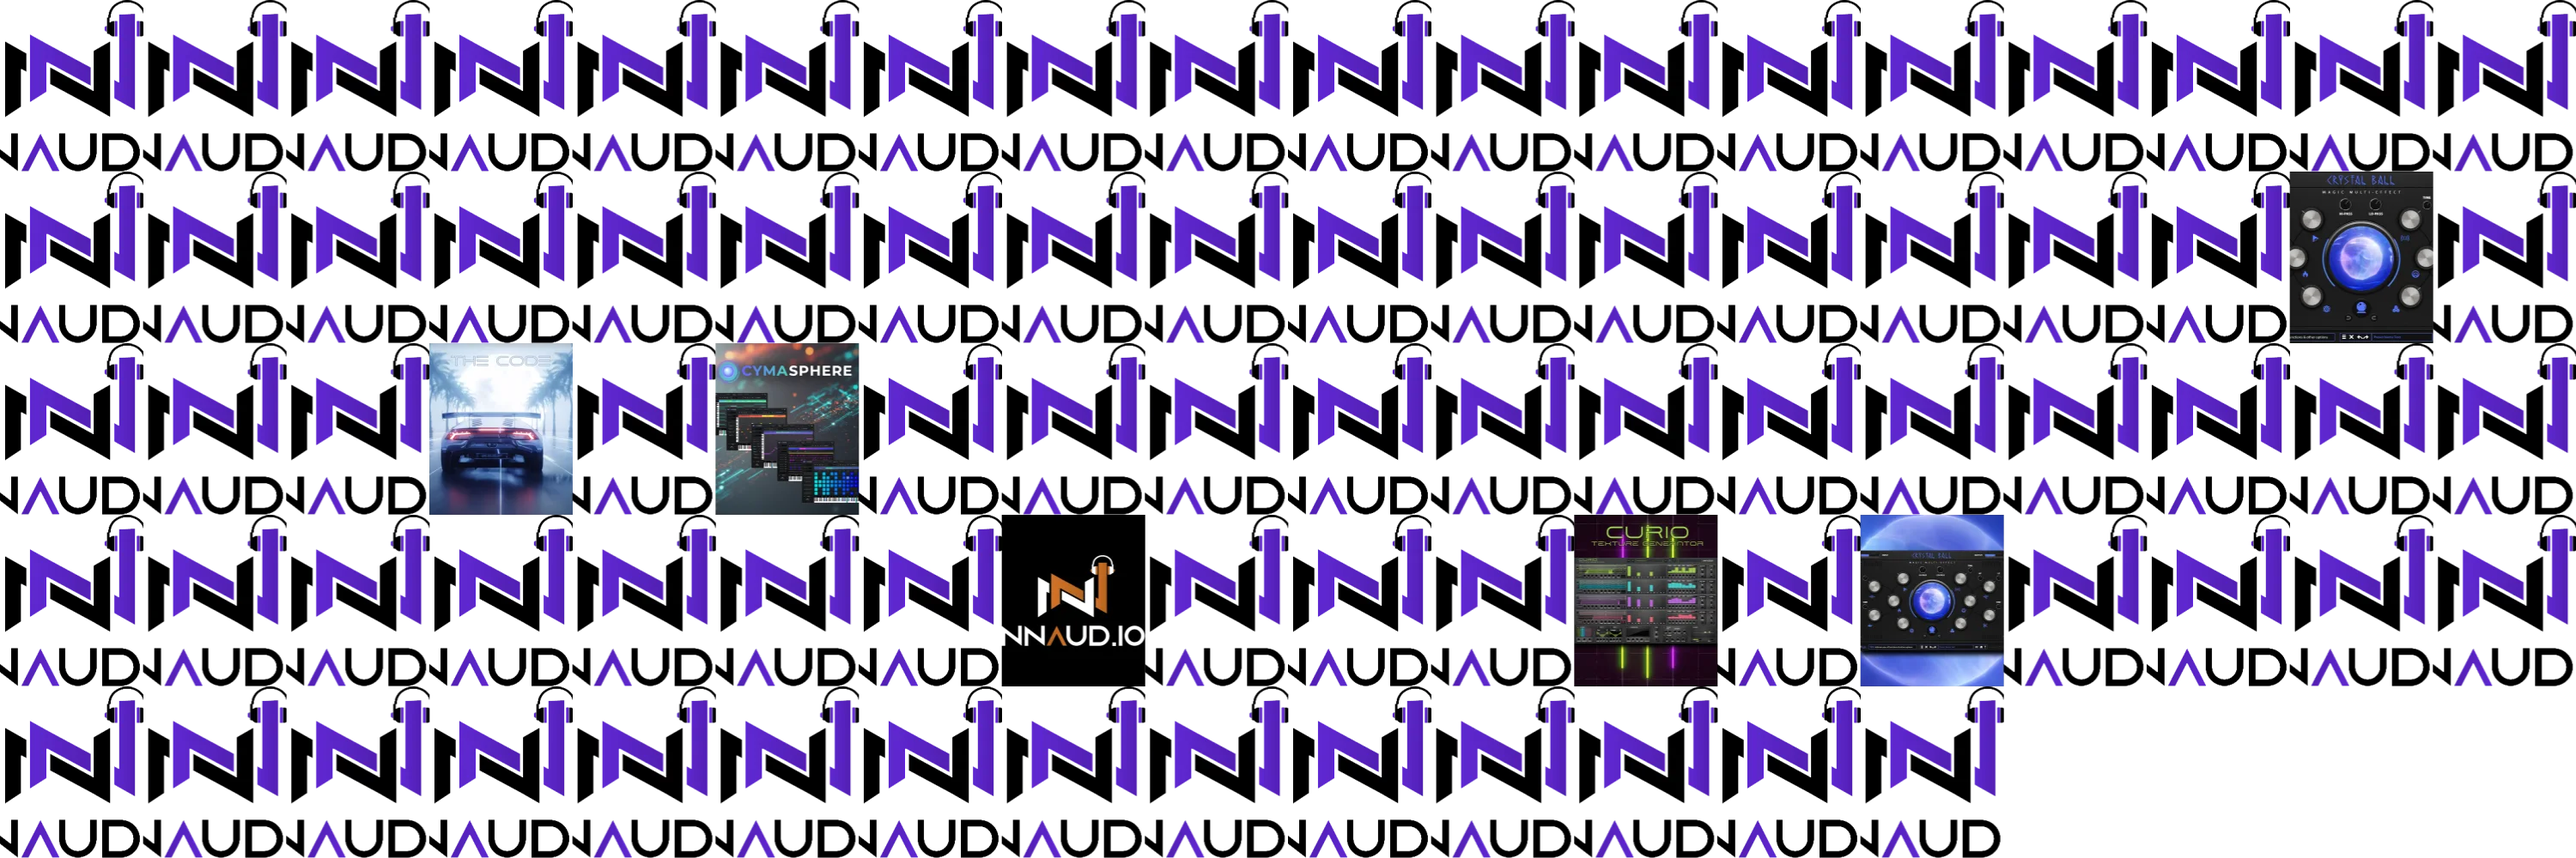
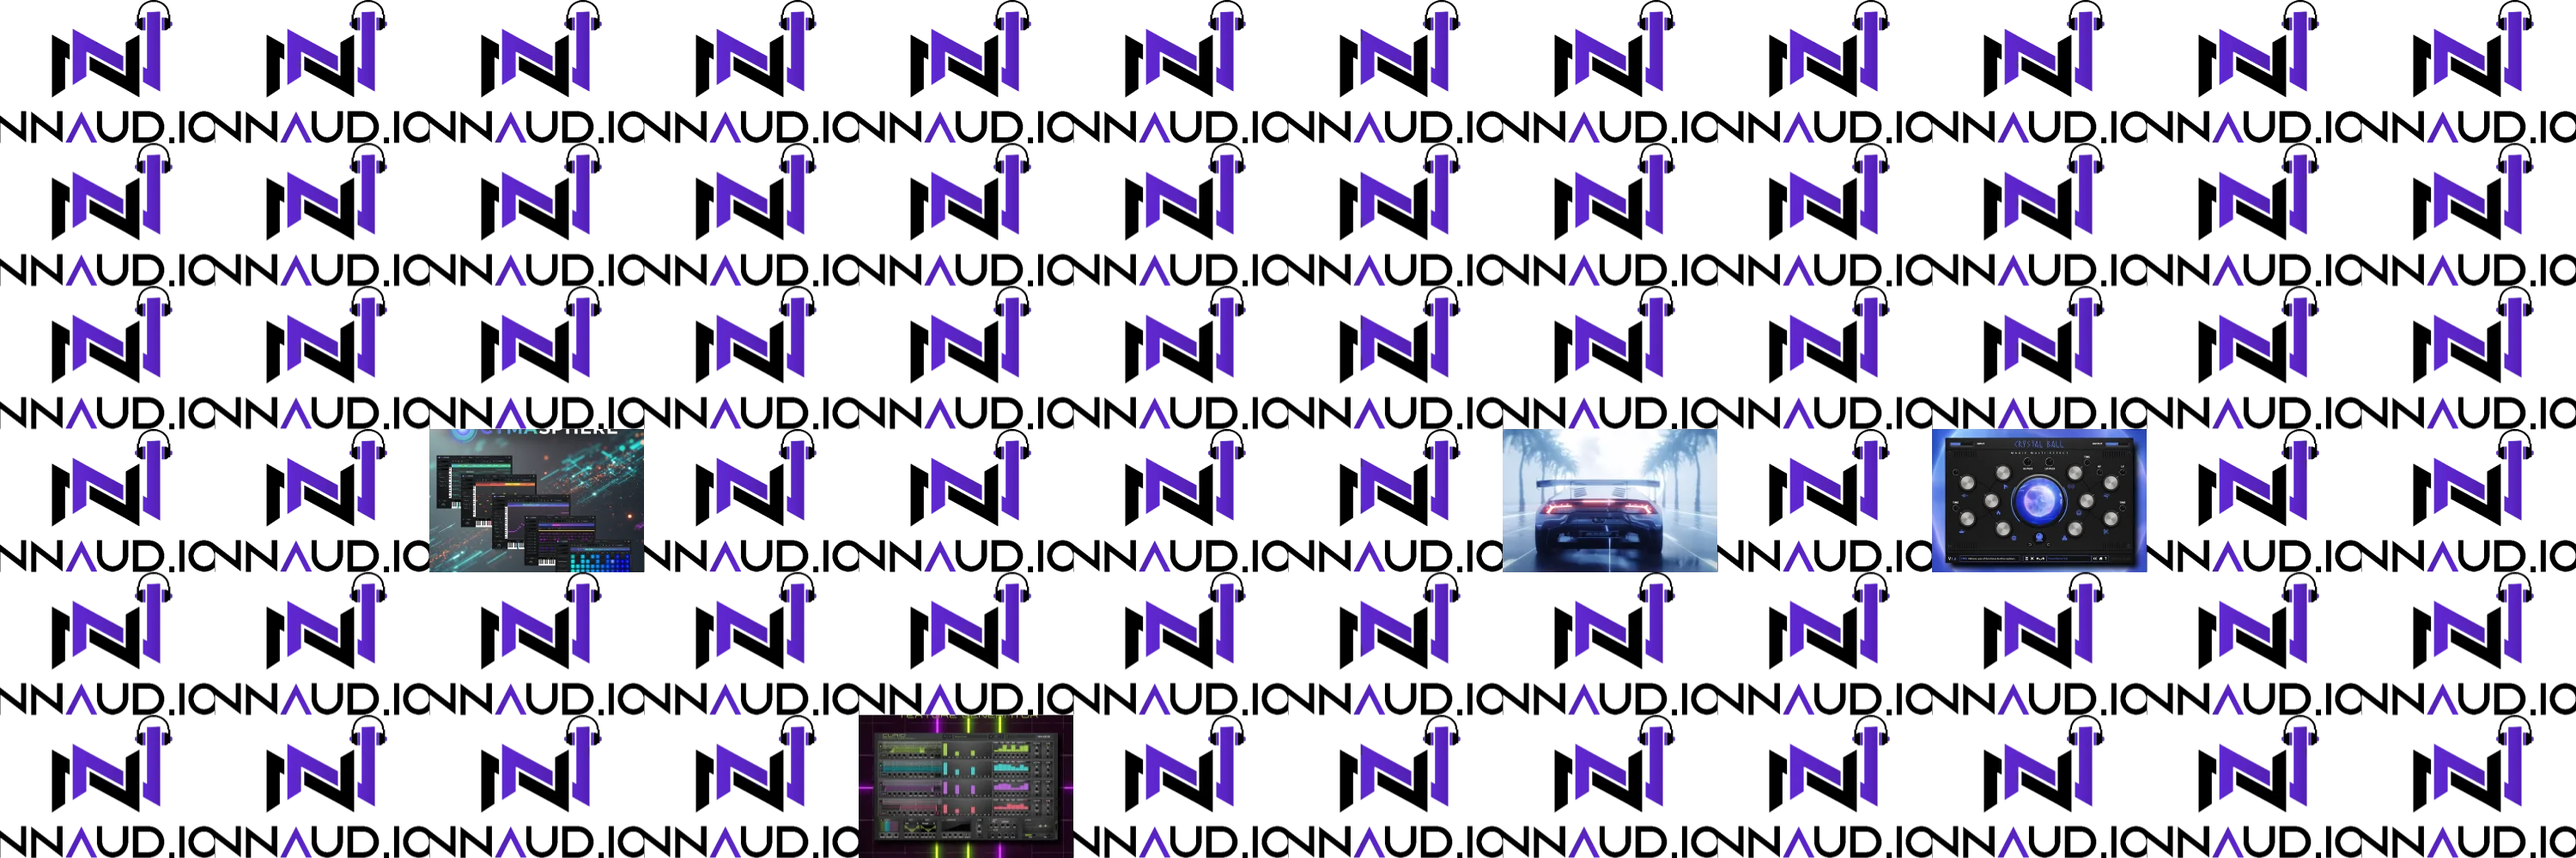
hero section

diff --git a/components/sections/HeroMosaic.tsx b/components/sections/HeroMosaic.tsx
@@ -24,22 +24,9 @@ const MosaicCanvas = styled.canvas`
   width: 100%;
   height: 100%;
   object-fit: cover;
-  opacity: 0.4;
+  opacity: 0.6;
 `;
 
-const MosaicOverlay = styled.div`
-  position: absolute;
-  top: 0;
-  left: 0;
-  right: 0;
-  bottom: 0;
-  background: 
-    linear-gradient(135deg, rgba(10, 10, 10, 0.7) 0%, rgba(26, 26, 46, 0.6) 50%, rgba(22, 33, 62, 0.7) 100%),
-    radial-gradient(circle at 20% 30%, rgba(138, 43, 226, 0.15), transparent 50%),
-    radial-gradient(circle at 80% 70%, rgba(75, 0, 130, 0.15), transparent 50%);
-  pointer-events: none;
-  z-index: 1;
-`;
 
 const ProductCountBadge = styled(motion.div)`
   position: absolute;
@@ -123,22 +110,33 @@ export default function HeroMosaic({ products }: HeroMosaicProps) {
     // Scale the context to match
     ctx.scale(scale, scale);
 
-    // Shuffle products for variety
-    const shuffledProducts = [...products].sort(() => Math.random() - 0.5);
+    // Filter out specific products
+    const filteredProducts = products.filter(product => {
+      const name = product.name.toLowerCase();
+      return !name.includes('nnaudio access') && 
+             !name.includes('mutahad');
+    });
+    
+    // Remove duplicate "Mai Tai MIDI" - keep only one
+    const maiTaiSeen = new Set();
+    const deduplicatedProducts = filteredProducts.filter(product => {
+      const name = product.name.toLowerCase();
+      if (name.includes('mai tai')) {
+        if (maiTaiSeen.has('mai tai')) {
+          return false; // Skip duplicate
+        }
+        maiTaiSeen.add('mai tai');
+      }
+      return true;
+    });
 
-    // Calculate optimal grid layout for wide format
-    // We want more columns than rows for the wide aspect ratio
-    const productCount = shuffledProducts.length;
-    const aspectRatio = containerWidth / containerHeight;
-    
-    // Calculate optimal rows/cols based on aspect ratio
-    let rows = Math.max(2, Math.round(Math.sqrt(productCount / aspectRatio)));
-    let cols = Math.ceil(productCount / rows);
-    
-    // Ensure we fill the space nicely
-    while (rows * cols < productCount) {
-      cols++;
-    }
+    // Shuffle products for variety
+    const shuffledProducts = [...deduplicatedProducts].sort(() => Math.random() - 0.5);
+
+    // Fixed grid: 12 columns x 6 rows = 72 products
+    const rows = 6;
+    const cols = 12;
+    const maxProducts = rows * cols; // 72 products
     
     const cellWidth = containerWidth / cols;
     const cellHeight = containerHeight / rows;
@@ -146,8 +144,8 @@ export default function HeroMosaic({ products }: HeroMosaicProps) {
     // Track seen images to handle duplicates
     const seenImages = new Map<string, boolean>();
     
-    // Load and draw images
-    const imagePromises = shuffledProducts.slice(0, rows * cols).map((product, index) => {
+    // Load and draw images (limit to 72 for 12x6 grid)
+    const imagePromises = shuffledProducts.slice(0, maxProducts).map((product, index) => {
       return new Promise<void>((resolve) => {
         const featuredImageUrl = product.featured_image_url;
         const logoUrl = product.logo_url;
@@ -256,7 +254,6 @@ export default function HeroMosaic({ products }: HeroMosaicProps) {
         </LoadingOverlay>
       )}
       <MosaicCanvas ref={canvasRef} />
-      <MosaicOverlay />
       <ProductCountBadge
         initial={{ opacity: 0, scale: 0.9 }}
         animate={{ opacity: 1, scale: 1 }}

diff --git a/components/sections/FeaturedProductsSection.tsx b/components/sections/FeaturedProductsSection.tsx
@@ -51,7 +51,7 @@ const FeaturedCard = styled(motion.div)<{ $bgImage?: string }>`
   overflow: hidden;
   min-height: 500px;
   background: ${props => props.$bgImage 
-    ? `linear-gradient(180deg, rgba(0,0,0,0.4) 0%, rgba(0,0,0,0.8) 100%), url(${props.$bgImage})`
+    ? `url(${props.$bgImage})`
     : 'linear-gradient(135deg, #1a1a2e 0%, #16213e 100%)'};
   background-size: cover;
   background-position: center;
@@ -59,7 +59,6 @@ const FeaturedCard = styled(motion.div)<{ $bgImage?: string }>`
   cursor: pointer;
   display: flex;
   flex-direction: column;
-  justify-content: flex-end;
   
   &::before {
     content: "";
@@ -68,7 +67,7 @@ const FeaturedCard = styled(motion.div)<{ $bgImage?: string }>`
     left: 0;
     right: 0;
     bottom: 0;
-    background: linear-gradient(180deg, transparent 0%, rgba(138, 43, 226, 0.2) 50%, rgba(0,0,0,0.9) 100%);
+    background: linear-gradient(180deg, rgba(0,0,0,0.3) 0%, rgba(0,0,0,0.7) 100%);
     z-index: 1;
     transition: opacity 0.3s ease;
   }
@@ -79,7 +78,7 @@ const FeaturedCard = styled(motion.div)<{ $bgImage?: string }>`
     box-shadow: 0 30px 60px rgba(138, 43, 226, 0.3);
     
     &::before {
-      background: linear-gradient(180deg, transparent 0%, rgba(138, 43, 226, 0.4) 50%, rgba(0,0,0,0.95) 100%);
+      background: linear-gradient(180deg, rgba(0,0,0,0.4) 0%, rgba(0,0,0,0.8) 100%);
     }
   }
 `;
@@ -88,19 +87,22 @@ const CardContent = styled.div`
   padding: 2.5rem;
   position: relative;
   z-index: 2;
+  flex: 1;
+  display: flex;
+  flex-direction: column;
+  justify-content: flex-end;
 `;
 
-const ThumbnailBadge = styled.div`
-  position: absolute;
-  top: -28px;
-  right: 24px;
-  width: 96px;
-  height: 96px;
-  border-radius: 18px;
-  overflow: hidden;
-  border: 2px solid rgba(255, 255, 255, 0.25);
-  background: rgba(0, 0, 0, 0.4);
-  box-shadow: 0 10px 30px rgba(0, 0, 0, 0.35);
+const ProductImageContainer = styled.div`
+  position: relative;
+  width: 100%;
+  height: 300px;
+  flex-shrink: 0;
+  z-index: 2;
+  
+  img {
+    object-fit: cover;
+  }
 `;
 
 const ProductLogo = styled.div`
@@ -200,18 +202,18 @@ const FeaturedProductsSection: React.FC<FeaturedProductsSectionProps> = ({ title
               transition={{ duration: 0.6, delay: index * 0.15 }}
               whileHover={{ scale: 1.02 }}
             >
+              {product.thumbnail && (
+                <ProductImageContainer>
+                  <Image
+                    src={product.thumbnail}
+                    alt={`${product.name}`}
+                    fill
+                    sizes="(max-width: 768px) 100vw, 50vw"
+                    style={{ objectFit: "cover" }}
+                  />
+                </ProductImageContainer>
+              )}
               <CardContent>
-                {product.thumbnail && (
-                  <ThumbnailBadge>
-                    <Image
-                      src={product.thumbnail}
-                      alt={`${product.name} thumbnail`}
-                      fill
-                      sizes="120px"
-                      style={{ objectFit: "cover" }}
-                    />
-                  </ThumbnailBadge>
-                )}
                 {product.logo && (
                   <ProductLogo>
                     <Image

diff --git a/scripts/generate-hero-mosaic.ts b/scripts/generate-hero-mosaic.ts
@@ -102,21 +102,33 @@ async function generateHeroMosaic(
   const canvas = createCanvas(width, height);
   const ctx = canvas.getContext('2d');
 
-  // Randomize the order of products - use a better shuffle algorithm
-  const shuffledProducts = [...products].sort(() => Math.random() - 0.5);
+  // Filter out specific products
+  const filteredProducts = products.filter(product => {
+    const name = product.name.toLowerCase();
+    return !name.includes('nnaudio access') && 
+           !name.includes('mutahad');
+  });
+  
+  // Remove duplicate "Mai Tai MIDI" - keep only one
+  const maiTaiSeen = new Set();
+  const deduplicatedProducts = filteredProducts.filter(product => {
+    const name = product.name.toLowerCase();
+    if (name.includes('mai tai')) {
+      if (maiTaiSeen.has('mai tai')) {
+        return false; // Skip duplicate
+      }
+      maiTaiSeen.add('mai tai');
+    }
+    return true;
+  });
 
-  // Calculate optimal grid layout for wide format (more columns than rows)
-  const productCount = shuffledProducts.length;
-  const aspectRatio = width / height;
-  
-  // Calculate optimal rows/cols based on aspect ratio
-  let rows = Math.max(2, Math.round(Math.sqrt(productCount / aspectRatio)));
-  let cols = Math.ceil(productCount / rows);
-  
-  // Ensure we fill the space nicely
-  while (rows * cols < productCount) {
-    cols++;
-  }
+  // Randomize the order of products
+  const shuffledProducts = [...deduplicatedProducts].sort(() => Math.random() - 0.5);
+
+  // Fixed grid: 12 columns x 6 rows = 72 products
+  const rows = 6;
+  const cols = 12;
+  const maxProducts = rows * cols; // 72 products
   
   const cellWidth = width / cols;
   const cellHeight = height / rows;
@@ -124,13 +136,13 @@ async function generateHeroMosaic(
   // Track seen images to handle duplicates
   const seenImages = new Map<string, boolean>();
   
-  console.log(`  Loading ${shuffledProducts.length} images for hero mosaic (${cols}x${rows} grid)...`);
+  console.log(`  Loading ${Math.min(shuffledProducts.length, maxProducts)} images for hero mosaic (${cols}x${rows} grid)...`);
   let loadedCount = 0;
   let failedCount = 0;
   const failedProducts: string[] = [];
   
-  // Load all images first, then draw them
-  const imageLoadPromises = shuffledProducts.slice(0, rows * cols).map(async (product, index) => {
+  // Load all images first, then draw them (limit to 72 for 12x6 grid)
+  const imageLoadPromises = shuffledProducts.slice(0, maxProducts).map(async (product, index) => {
     const featuredImageUrl = product.featured_image_url;
     const logoUrl = product.logo_url;
     

diff --git a/components/sections/NNAudHeroSection.tsx b/components/sections/NNAudHeroSection.tsx
@@ -39,7 +39,7 @@ const HeroContainer = styled.section`
 
 const HeroContent = styled.div`
   width: 100%;
-  max-width: 1400px;
+  max-width: 1100px;
   margin: 0 auto;
   z-index: 2;
   position: relative;
@@ -47,10 +47,19 @@ const HeroContent = styled.div`
   flex-direction: column;
   align-items: center;
   text-align: center;
+  padding: 3rem 2rem;
+  background: rgba(138, 43, 226, 0.4);
+  border-radius: 24px;
+  
+  @media (max-width: 768px) {
+    padding: 2rem 1.5rem;
+    border-radius: 16px;
+  }
 `;
 
 const LogoContainer = styled(motion.div)`
   margin-bottom: 2rem;
+  filter: drop-shadow(0 4px 12px rgba(0, 0, 0, 0.6)) drop-shadow(0 2px 6px rgba(0, 0, 0, 0.4));
   
   img {
     max-width: 400px;
@@ -72,6 +81,7 @@ const HeroTitle = styled(motion.h1)`
   -webkit-text-fill-color: transparent;
   background-clip: text;
   line-height: 1.2;
+  filter: drop-shadow(0 4px 8px rgba(0, 0, 0, 0.5)) drop-shadow(0 2px 4px rgba(0, 0, 0, 0.3));
   
   @media (max-width: 768px) {
     font-size: 2.5rem;
@@ -84,6 +94,7 @@ const HeroSubtitle = styled(motion.p)`
   margin-bottom: 3rem;
   max-width: 700px;
   line-height: 1.6;
+  text-shadow: 0 2px 8px rgba(0, 0, 0, 0.6), 0 1px 4px rgba(0, 0, 0, 0.4);
   
   @media (max-width: 768px) {
     font-size: 1.1rem;
